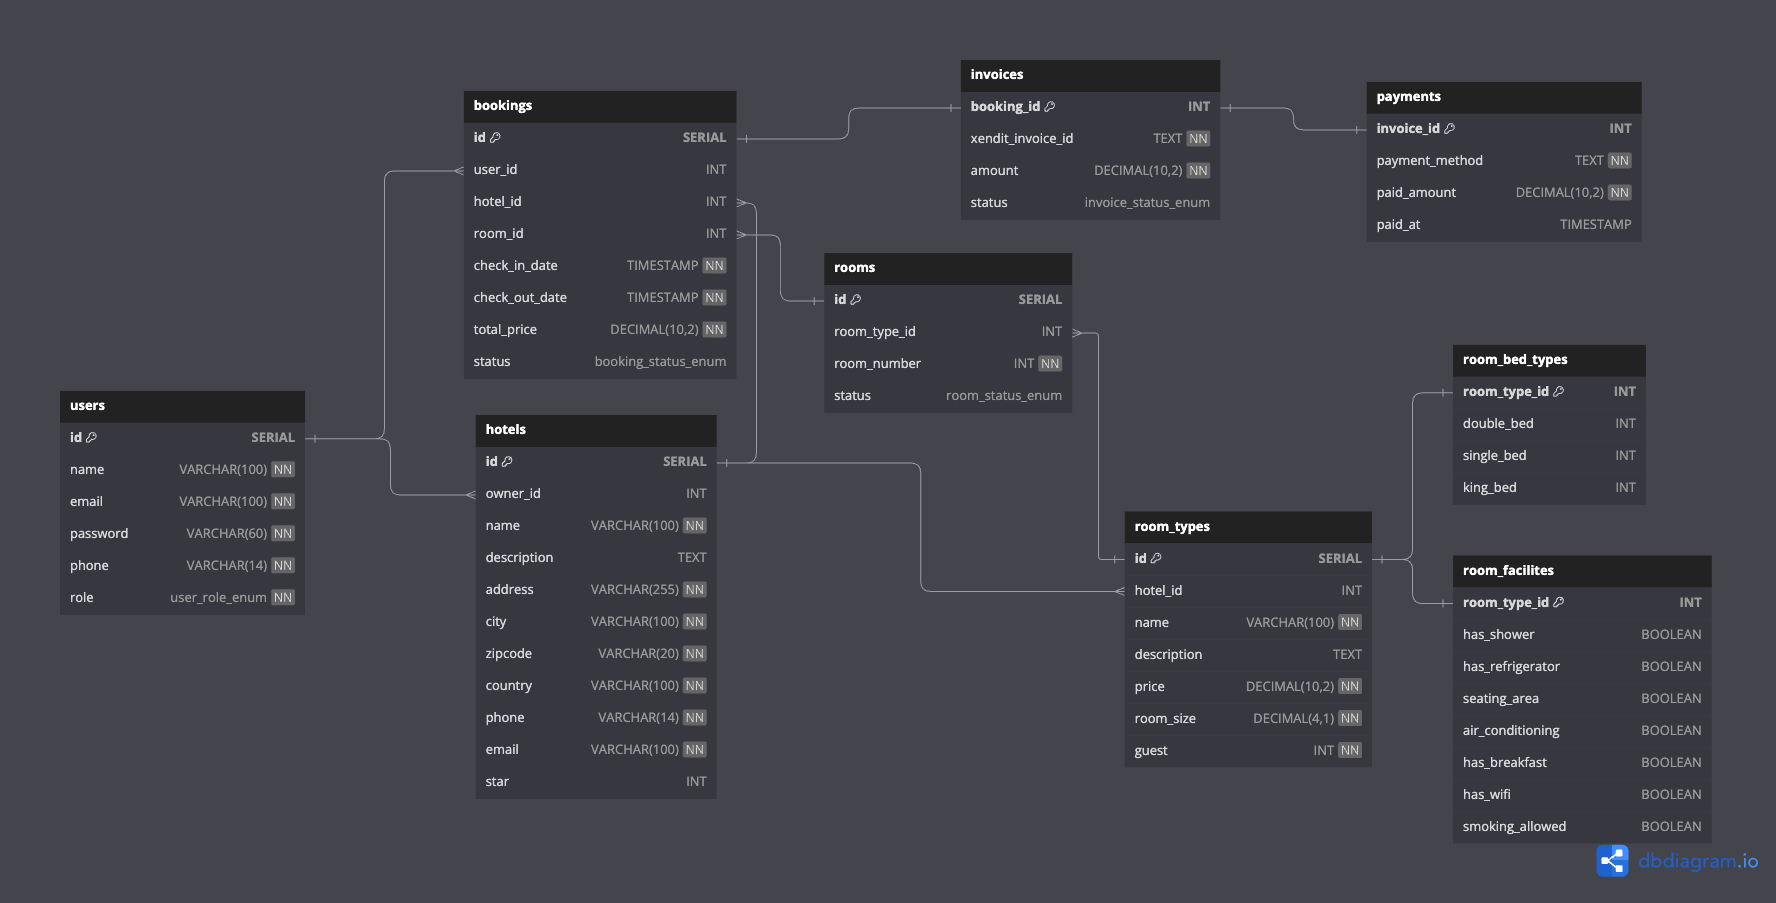
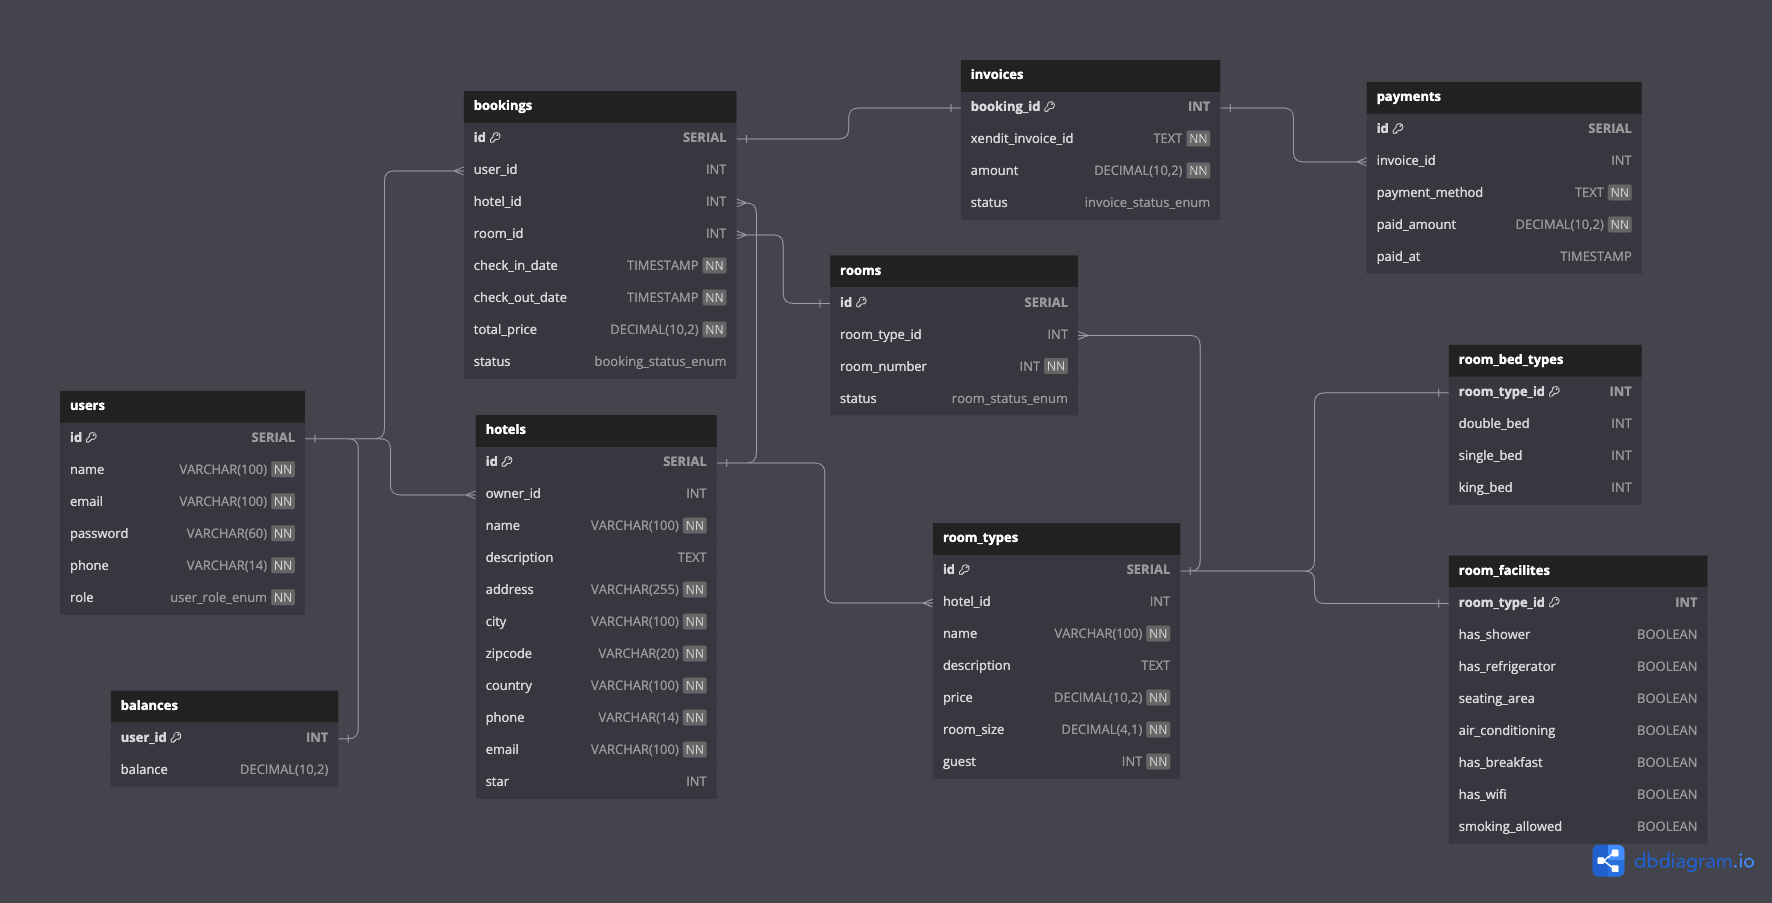
refactor: database schema

diff --git a/entity_database_design.md b/entity_database_design.md
@@ -86,6 +86,11 @@ Berikut adalah contoh yang telah disesuaikan dengan DDL yang kamu berikan:
 - `paid_amount` DECIMAL(10, 2) NOT NULL
 - `paid_at` TIMESTAMP DEFAULT CURRENT_TIMESTAMP
 
+### j. Entity: balances
+##### Attributes:
+- `user_id` INT PRIMARY KEY REFERENCES users(id) ON DELETE CASCADE
+- `balance` DECIMAL(10, 2) DEFAULT 0
+
 ---
 
 ## B. Relationships:
@@ -115,8 +120,12 @@ Berikut adalah contoh yang telah disesuaikan dengan DDL yang kamu berikan:
 - **Description:** Each booking has only one invoice, and each invoice is associated with only one booking.
 
 ### 7. invoices to payments
-- **Type:** One to One
-- **Description:** One invoice has only one payments, and each payment is associated with only one invoice.
+- **Type:** One to Many 
+- **Description:** One invoice can have many payments, but each payment is associated with only one invoice.
+
+### 8. users to balances
+- **Type:** One to One 
+- **Description:** One user has only one balance, and each balance is associated with only one user.
 
 ---
 
